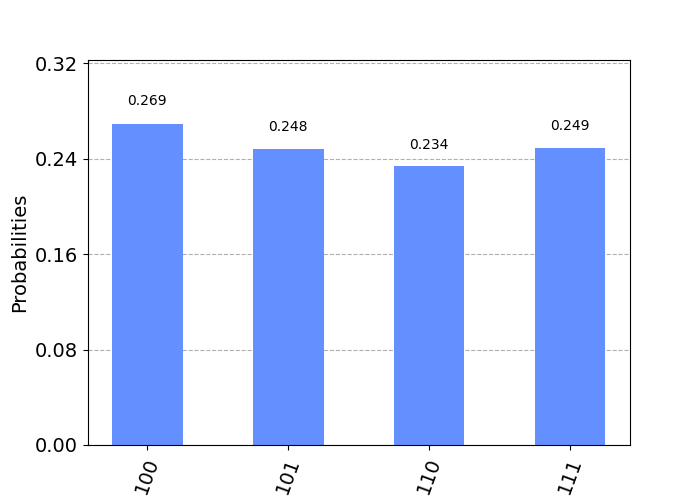
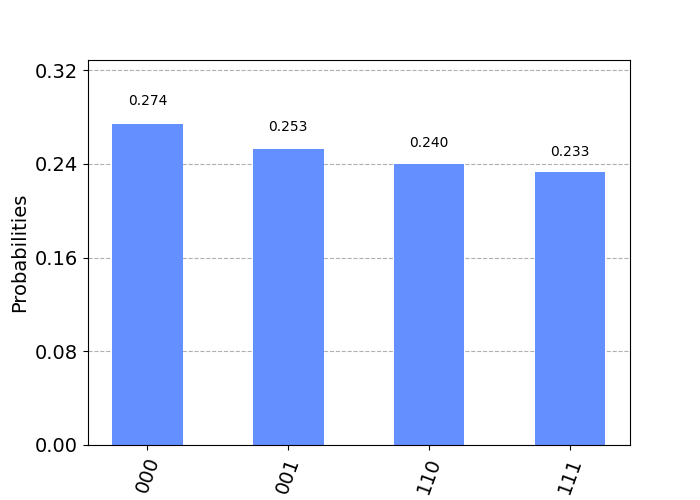
scigym qiskit bruteforce

diff --git a/Prueba 1/scigym-teleportation-bruteforce.py b/Prueba 1/scigym-teleportation-bruteforce.py
@@ -7,26 +7,25 @@ from qiskit import QuantumCircuit
 from qiskit.visualization import plot_histogram, plot_state_city
 
 j = 0; reward = 0
-while (reward == 0) and (j<1000) :
+#while (reward == 0) and (j<1000) :
+while (reward == 0):
     i = 0; j += 1
     env = scigym.make('teleportation-v0')  
     observation = env.reset()  
     done = False
-    actions_int = []
     num_actions = env.action_space.n; available = {}
     available['available_actions'] = range(num_actions)
     while done==False:  
         i += 1
         action = np.random.choice(available['available_actions'])
-        actions_int.append(action)
         (observation, reward, done, available) = env.step(action)
-        print("{}, {} --> Reward: {}. Done: {}. Available actions: {}.".format(j, i, reward, done, available['available_actions']), end=" ")      
-        if bool(available['available_actions']):
-            print("Action: {}.".format(action))
-        else:
-            print("No more available actions.")
-    if reward == 0:
-        print("Target not met.")
+        #print("{}, {} --> Reward: {}. Done: {}. Available actions: {}.".format(j, i, reward, done, available['available_actions']), end=" ")      
+        #if bool(available['available_actions']):
+        #    print("Action: {}.".format(action))
+        #else:
+        #    print("No more available actions.")
+    #if reward == 0:
+    #    print("Target not met.")
 
 if reward == 1:
     actions_gate = []
@@ -40,7 +39,7 @@ if reward == 1:
     circuit.cx(1,2)
     circuit.barrier() 
 
-    for action in actions_int:
+    for action in observation:
         if action == 0:
             actions_gate.append('H_0')
             circuit.h(0)
@@ -69,34 +68,44 @@ if reward == 1:
             actions_gate.append('CNOT_01')
             circuit.cx(0,1)
             circuit.barrier() 
-        elif action == 7:
+        elif (action == 10) or (action == 11):
             actions_gate.append('MEASURE_0')
-            #circuit.measure(0, 0) 
-            #circuit.barrier() 
-        elif action == 8:
+            circuit.measure(0, 0) 
+            circuit.barrier() 
+        elif (action == 12) or (action == 13):
             actions_gate.append('MEASURE_1')
-            #circuit.measure(1, 1) 
-            #circuit.barrier() 
-        elif action == 9:
+            circuit.measure(1, 1) 
+            circuit.barrier() 
+        elif (action == 14) or (action == 15):
             actions_gate.append('MEASURE_2')
             #circuit.measure(2, 2) 
             #circuit.barrier() 
 
-    circuit.cz(0, 2)
-    circuit.cx(1, 2)
+    #print("\nNumber of actions: {}. Actions (gates): {}.\nQuantum Circuit:".format(i, actions_gate))
+    print("{}: Number of actions: {}. Actions (gates): {}.\nObservations: {}.".format(j, i, actions_gate, observation))
+    
+    print("Outcome qubits 1 and 0:", end=" ")  
+    if 13 in observation:
+        print("(1, ", end="")
+    if 12 in observation:   
+        print("(0, ", end="")  
+    if 11 in observation:
+        print("1).")    
+    if 10 in observation:
+        print("0).")         
+    
+    circuit.cz(0,2)
+    #circuit.cx(1,2)  
+    circuit.measure([2], [2]) 
     circuit.barrier() 
-    circuit.measure([0, 1, 2], [0, 1, 2]) 
-    circuit.barrier() 
+    print("Quantum circuit:\n{}".format(circuit))
 
-    print("\nNumber of actions: {}. Actions (gates): {}.\nQuantum Circuit:".format(i, actions_gate))
-    print(circuit)
-
-    backend = Aer.get_backend('statevector_simulator')
-    result = execute(circuit, backend=backend).result()    
-    statevector = result.get_statevector(circuit)
-    print("State vector: {}".format(statevector))
-    fig = plot_state_city(statevector)
-    fig.savefig("/home/agustinsilva447/Github/Reinforcement-Learning/Prueba 1/state.png")
+    #backend = Aer.get_backend('statevector_simulator')
+    #result = execute(circuit, backend=backend).result()    
+    #statevector = result.get_statevector(circuit)
+    #print("State vector: {}".format(statevector))
+    #fig = plot_state_city(statevector)
+    #fig.savefig("/home/agustinsilva447/Github/Reinforcement-Learning/Prueba 1/state.png")
 
     backend = Aer.get_backend('qasm_simulator')
     result = execute(circuit, backend=backend, shots=1000).result()
@@ -104,3 +113,6 @@ if reward == 1:
     print("Counts: {}".format(counts))
     fig = plot_histogram(counts) 
     fig.savefig("/home/agustinsilva447/Github/Reinforcement-Learning/Prueba 1/counts.png")
+
+elif reward == 0:
+    print("Target not met.")
